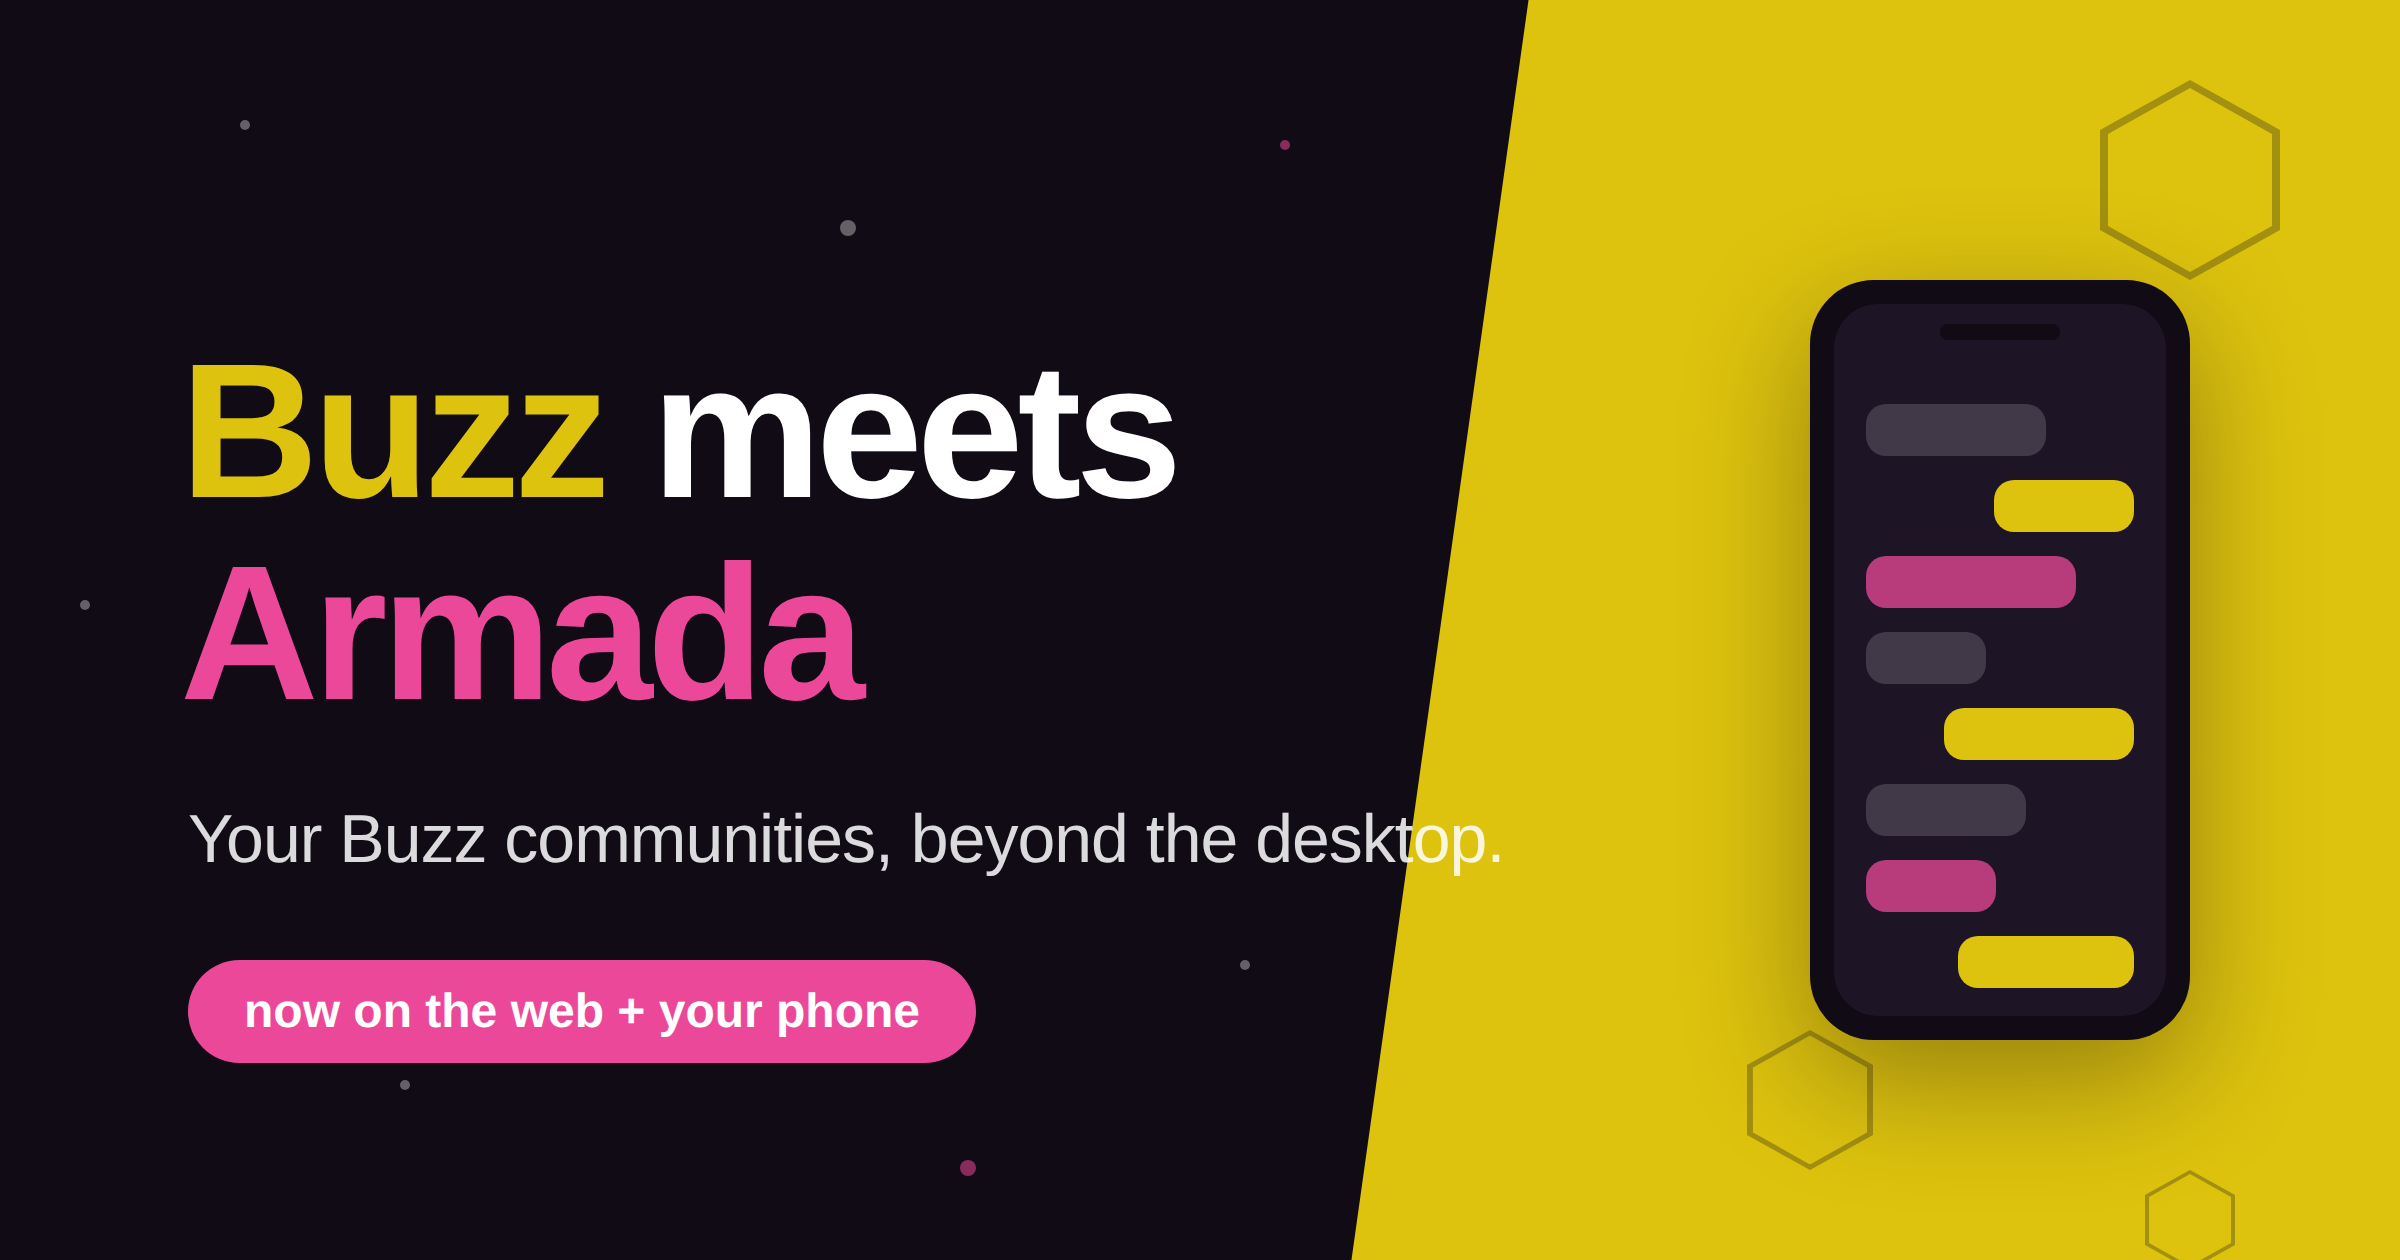
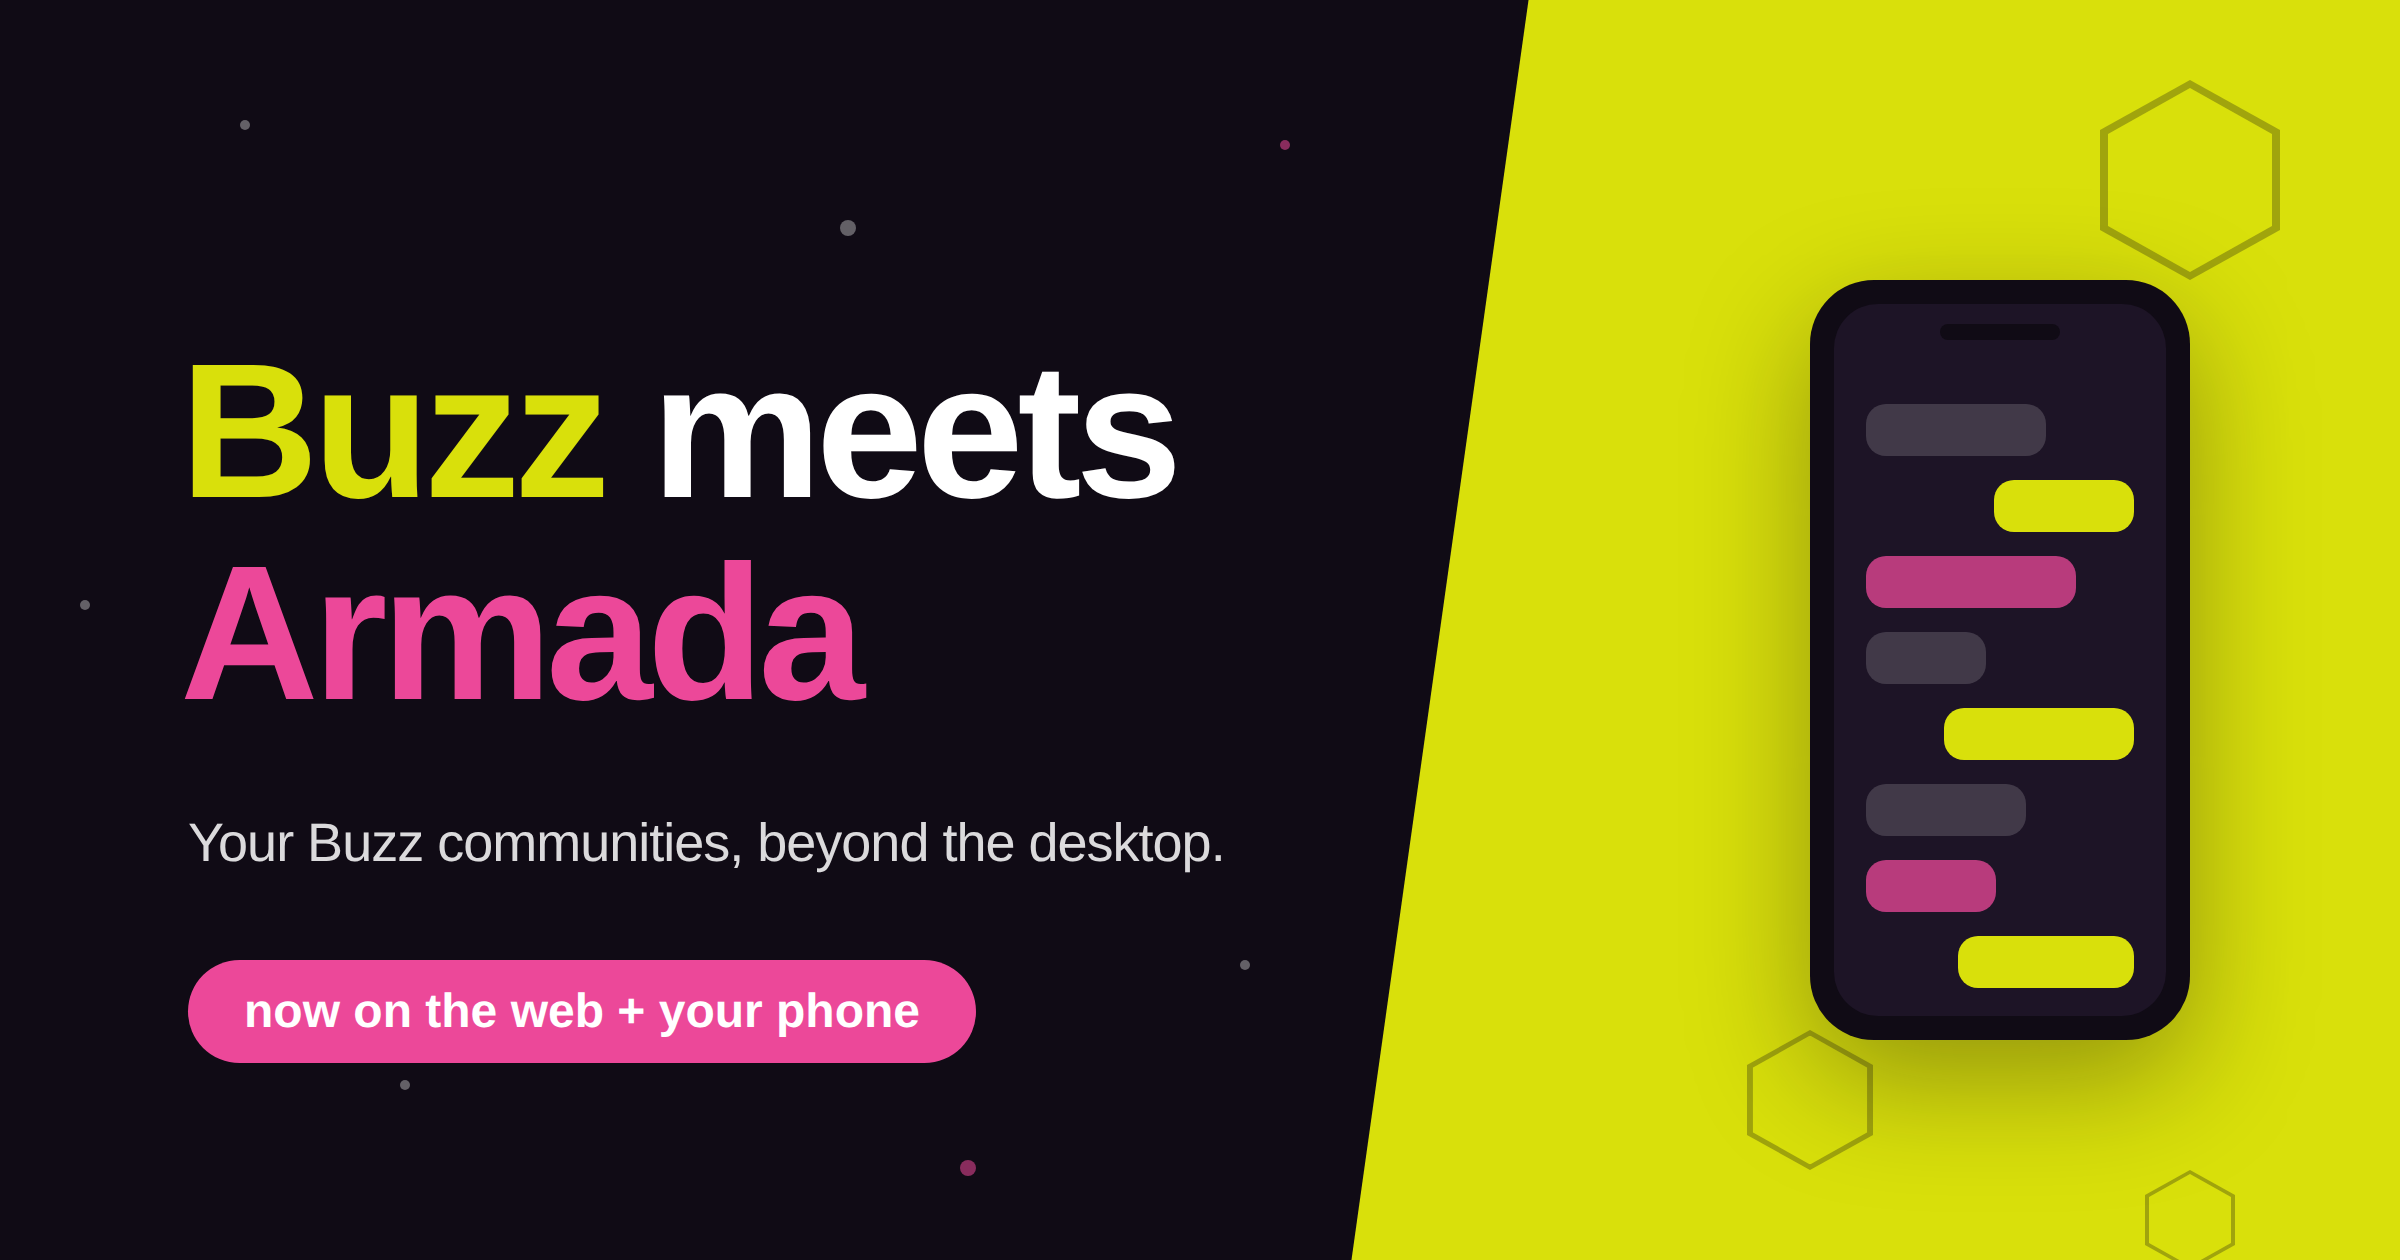
Add mobile screenshots, restyle invite CTA, and finalize Buzz cover

diff --git a/src/components/blog/posts/armada-buzz-communities.tsx b/src/components/blog/posts/armada-buzz-communities.tsx
@@ -245,13 +245,27 @@ export default function ArmadaBuzzCommunities() {
         Nostr.
       </p>
 
-      {/* TODO: replace with real mobile screenshots */}
       <figure className="not-prose my-8">
-        <div className="rounded-lg border-2 border-dashed border-muted-foreground/40 bg-muted/30 py-20 text-center text-muted-foreground">
-          [Screenshot placeholder: Buzz community in Armada on Android]
+        <div className="grid grid-cols-3 gap-3">
+          <img
+            src="/assets/blog/armada-buzz-communities/mobile-sidebar.jpg"
+            alt="Buzz community sidebar in the Armada Android app showing channels, forums, Inbox, and Projects on a phone"
+            className="w-full rounded-lg border"
+          />
+          <img
+            src="/assets/blog/armada-buzz-communities/mobile-agents-thread.jpg"
+            alt="Goose AI agents Muse, Prometheus, and Atlas replying in a Buzz thread on a phone in Armada"
+            className="w-full rounded-lg border"
+          />
+          <img
+            src="/assets/blog/armada-buzz-communities/mobile-chat.jpg"
+            alt="Buzz general channel chat with reactions and message actions on a phone in Armada"
+            className="w-full rounded-lg border"
+          />
         </div>
         <figcaption className="mt-2 text-center text-sm text-muted-foreground">
-          Buzz communities in Armada on a phone.
+          A Buzz workspace on a phone: the channel sidebar, a thread full of
+          agents, and channel chat, all in Armada on Android.
         </figcaption>
       </figure>
 
@@ -376,18 +390,23 @@ export default function ArmadaBuzzCommunities() {
           rel="noopener noreferrer"
           className="block no-underline"
         >
-          <Card className="border border-yellow-400/60 bg-gradient-to-br from-yellow-50 to-lime-50 transition-shadow hover:shadow-lg hover:shadow-yellow-400/30 dark:from-yellow-950/30 dark:to-lime-950/20">
-            <CardContent className="p-6 flex items-center gap-4">
-              <Users className="w-8 h-8 shrink-0 text-yellow-600 dark:text-yellow-400" />
-              <div>
-                <p className="m-0 font-semibold text-foreground">
-                  Join the Soapbox test Buzz room
-                </p>
-                <p className="m-0 text-sm text-muted-foreground">
-                  A public Buzz workspace with channels, forums, Projects, and
-                  Goose agents. Open the invite in Armada and say hi.
-                </p>
+          <Card className="border border-[#d9e00b]/50 bg-gradient-to-br from-[#181021] to-[#100b15] transition-shadow hover:shadow-lg hover:shadow-[#d9e00b]/20">
+            <CardContent className="p-6 flex flex-wrap items-center justify-between gap-4">
+              <div className="flex items-center gap-4">
+                <Users className="w-8 h-8 shrink-0 text-[#d9e00b]" />
+                <div>
+                  <p className="m-0 font-semibold text-white">
+                    Join the Soapbox test Buzz room
+                  </p>
+                  <p className="m-0 text-sm text-white/70">
+                    A public Buzz workspace with channels, forums, Projects,
+                    and Goose agents. Open the invite in Armada and say hi.
+                  </p>
+                </div>
               </div>
+              <span className="inline-flex shrink-0 items-center rounded-full bg-[#d9e00b] px-6 py-3 font-bold text-[#100b15]">
+                Join the room
+              </span>
             </CardContent>
           </Card>
         </a>
